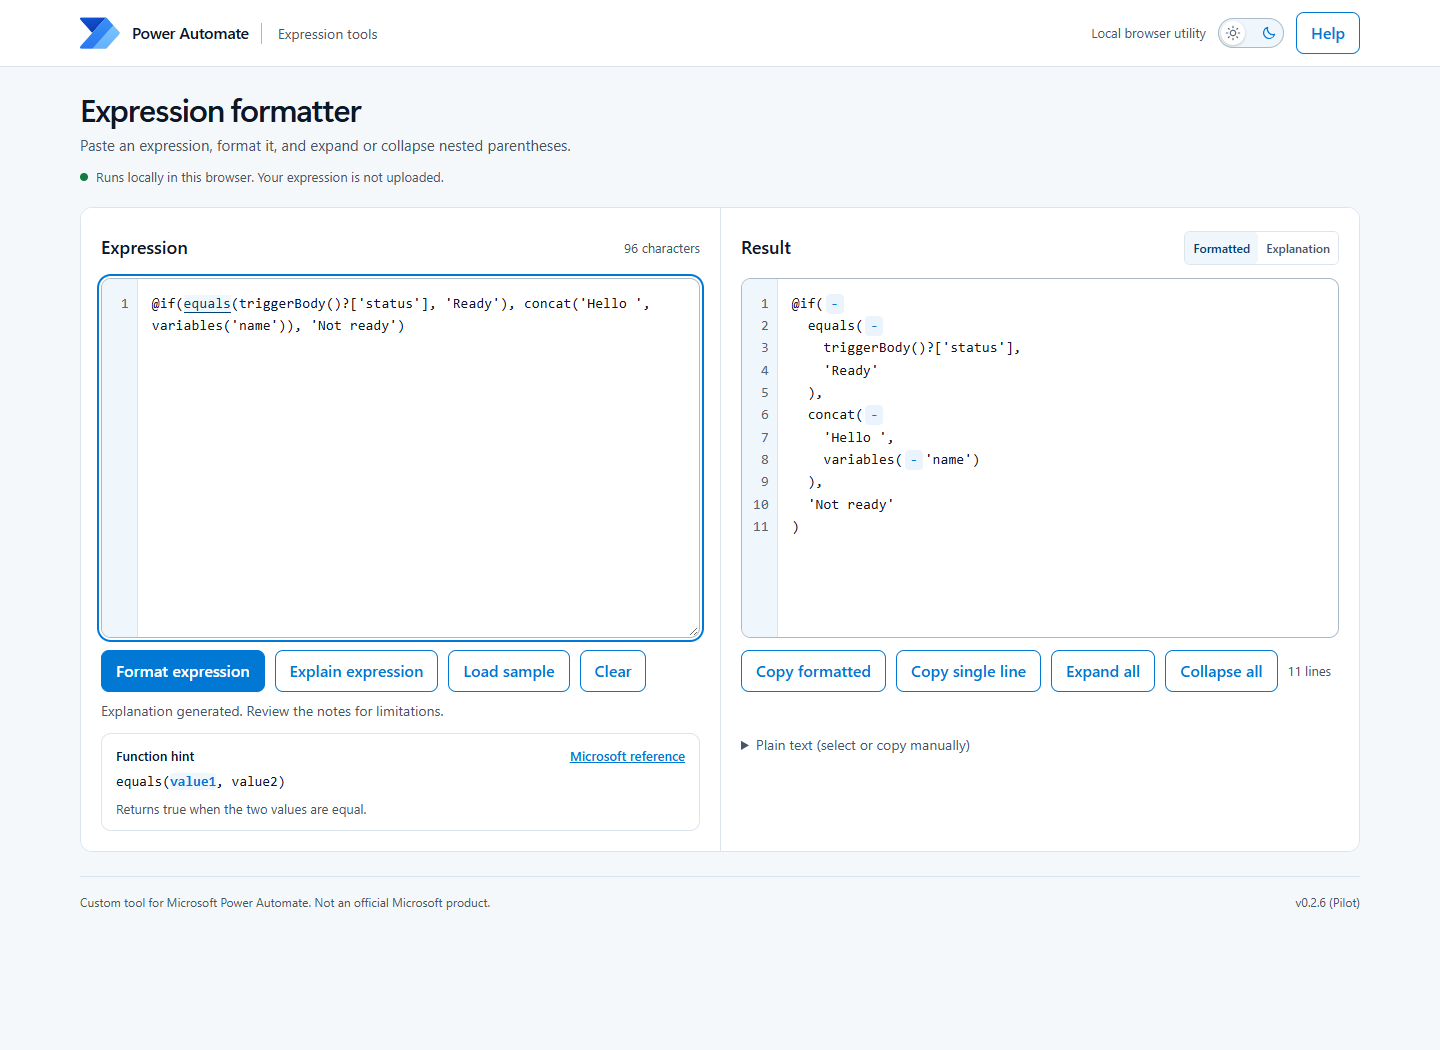
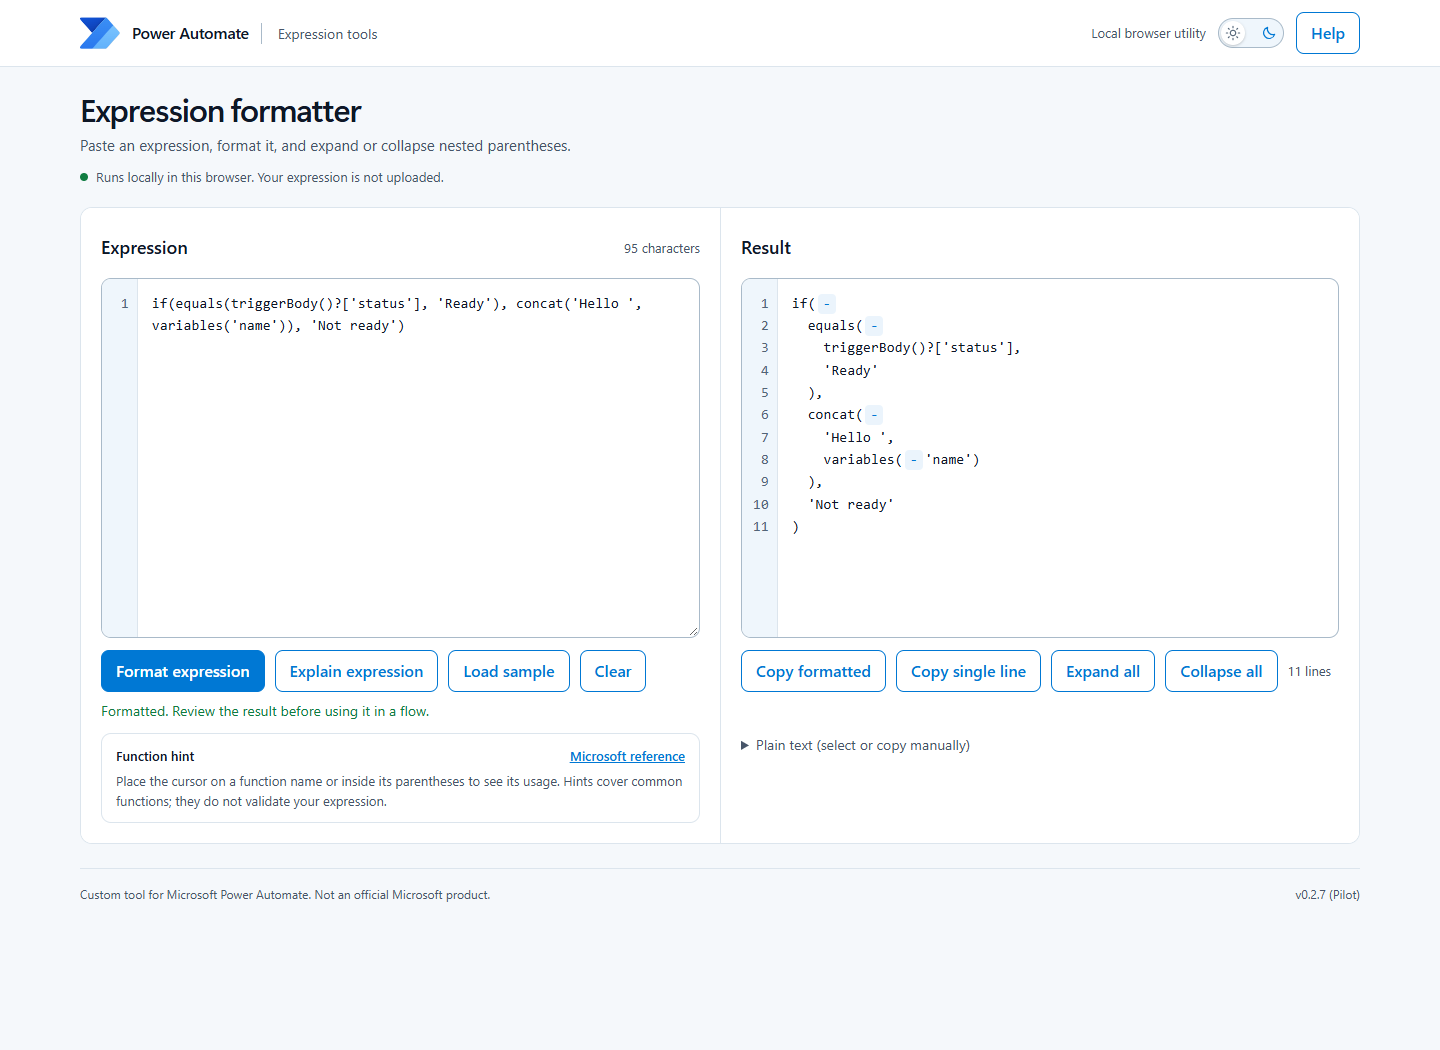
Remove @ prefix from sample expression
Release formatter v0.2.7 with the sample ready to paste into the expression editor.

diff --git a/tools/expression-formatter/index.html b/tools/expression-formatter/index.html
@@ -928,7 +928,7 @@ Community-built tool. Not an official Microsoft product.
           <button id="warning-badge" type="button" aria-controls="warning-popover" aria-expanded="false" hidden>0 warnings</button>
         </div>
         <div class="source-editor">
-          <textarea id="source" spellcheck="false" aria-label="Expression to format" placeholder="@if(equals(triggerBody()?['status'], 'Ready'), concat('Hello ', variables('name')), 'Not ready')"></textarea>
+          <textarea id="source" spellcheck="false" aria-label="Expression to format" placeholder="if(equals(triggerBody()?['status'], 'Ready'), concat('Hello ', variables('name')), 'Not ready')"></textarea>
           <div id="source-line-gutter" class="source-line-gutter" aria-hidden="true"><div>1</div></div>
           <div id="source-line-measure" class="source-line-measure" aria-hidden="true"></div>
           <pre id="source-mirror" class="source-mirror" aria-hidden="true" hidden></pre>
@@ -1012,7 +1012,7 @@ Community-built tool. Not an official Microsoft product.
 
     <footer class="footer-note">
       <span>Custom tool for Microsoft Power Automate. Not an official Microsoft product.</span>
-      <span class="footer-version" aria-label="Version 0.2.6, pilot">v0.2.6 (Pilot)</span>
+      <span class="footer-version" aria-label="Version 0.2.7, pilot">v0.2.7 (Pilot)</span>
     </footer>
   </main>
     <section id="warning-popover" class="warning-popover" role="region" aria-labelledby="warning-title" hidden>
@@ -1363,7 +1363,7 @@ Community-built tool. Not an official Microsoft product.
     let copyAttempt = 0;
     let copyFeedbackTimer = null;
     const sampleExpression =
-      "@if(equals(triggerBody()?['status'], 'Ready'), concat('Hello ', variables('name')), 'Not ready')";
+      "if(equals(triggerBody()?['status'], 'Ready'), concat('Hello ', variables('name')), 'Not ready')";
 
     function matchingClose(open) {
       return { "(": ")", "[": "]", "{": "}" }[open];

diff --git a/tools/expression-formatter/README.md b/tools/expression-formatter/README.md
@@ -2,7 +2,7 @@
 
 Make long Power Automate expressions easier to read, explore, and explain.
 
-**v0.2.6 (Pilot)** | [Try it online](https://akmsft.github.io/power-automate/tools/expression-formatter/) | [Download the HTML file](https://github.com/akmsft/power-automate/releases/download/expression-formatter-v0.2.6/power-automate-expression-formatter.html)
+**v0.2.7 (Pilot)** | [Try it online](https://akmsft.github.io/power-automate/tools/expression-formatter/) | [Download the HTML file](https://github.com/akmsft/power-automate/releases/download/expression-formatter-v0.2.7/power-automate-expression-formatter.html)
 
 ![Power Automate Expression Formatter showing a formatted sample expression](images/screenshot.png)
 
@@ -10,7 +10,7 @@ Make long Power Automate expressions easier to read, explore, and explain.
 
 **Online:** open the [live tool](https://akmsft.github.io/power-automate/tools/expression-formatter/) in a modern browser.
 
-**Offline:** download `power-automate-expression-formatter.html` from the [release](https://github.com/akmsft/power-automate/releases/tag/expression-formatter-v0.2.6), then double-click it to open it in Edge or Chrome. No installation, account, internet connection, or additional files are needed to run the downloaded tool.
+**Offline:** download `power-automate-expression-formatter.html` from the [release](https://github.com/akmsft/power-automate/releases/tag/expression-formatter-v0.2.7), then double-click it to open it in Edge or Chrome. No installation, account, internet connection, or additional files are needed to run the downloaded tool.
 
 If you download or clone the whole repository instead, open `tools/expression-formatter/index.html`. GitHub's file preview displays the source code, not the running tool.
 

diff --git a/README.md b/README.md
@@ -9,6 +9,6 @@ A free, browser-based tool for formatting, folding, and understanding Power Auto
 
 - [Read the guide and see the screenshot](tools/expression-formatter/README.md)
 - [Try it online](https://akmsft.github.io/power-automate/tools/expression-formatter/)
-- [Download the pilot release](https://github.com/akmsft/power-automate/releases/tag/expression-formatter-v0.2.6)
+- [Download the pilot release](https://github.com/akmsft/power-automate/releases/tag/expression-formatter-v0.2.7)
 
 The formatter is a community-built pilot, not an official Microsoft product. Its MIT license applies only to the formatter folder, not the existing solution packages in this repository.
